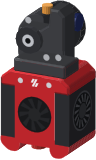
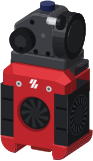
feat(toolhead): redraw the Dragon Burner from its v8 STEP (prestonbrown/helixscreen#2081)
Cowl proportions come from the v8 STEP assembly: the faceted cap, the narrow front plate
around the 3010 fan, the 4010 blowers filling both sides, and quarter-round duct feet.
The extruder on top is a Galileo 2 standalone, as in the v8 renders.

diff --git a/scripts/unit_art/heads/dragonburner.py b/scripts/unit_art/heads/dragonburner.py
@@ -1,30 +1,46 @@
 # SPDX-License-Identifier: GPL-3.0-or-later
-"""Dragonburner: a red fan body and duct lips, black fan blocks, and a compact dark extruder."""
+"""Dragon Burner v8 with a Galileo 2 standalone extruder, measured from the v8 STEP assembly.
+
+A red cowl: a faceted cap, a front plate around the 3010 hotend fan and two duct feet. Black 4010 blowers fill
+the cowl's sides, and the extruder sits on a dark mount behind the cap. Sizes are in millimetres, scaled by MM.
+"""
 import math
 
 from ..head import Drawing, HeadDef, rounded
 
-BODY, EXTRUDER, BLACK, DARK = "#b8242a", "#3a3b3f", "#2a2b2f", "#101113"
-HALF_WIDTH = 0.215
-DEPTH = 0.33
-BODY_TOP = 0.5
-BLOCK_TOP = 0.445
-TIP = (0.0, 0.05, 0.012)
+BODY, MOUNT, EXTRUDER, BLOWER, KNOB, DARK = "#b8242a", "#2f3034", "#3c3d42", "#232427", "#1a1b1e", "#101113"
+SCREW = "#c6c8cc"
+MM = 0.43 / 55.0
+
+HALF_WIDTH = 27.5 * MM
+PLATE_HALF = 16.5 * MM
+DUCT_INNER = 15.0 * MM
+DUCT_TOP = 12.0 * MM
+DUCT_DEPTH = 40.0 * MM
+PLATE_BOTTOM = 8.0 * MM
+BODY_DEPTH = 35.0 * MM
+CAP_BOTTOM = 52.0 * MM
+CAP_SHOULDER = 61.0 * MM
+CAP_TOP = 67.0 * MM
+CAP_DEPTH = 14.0 * MM
+CHAMFER = 6.0 * MM
+FAN_Z = 33.0 * MM
+FAN_R = 13.6 * MM
+# The mounts behind the cap: the hotend's, then the extruder's on top of it.
+MOUNT_FRONT, MOUNT_BACK = 14.0 * MM, 37.0 * MM
+HOTEND_MOUNT_BOTTOM = 44.0 * MM
+EXTRUDER_MOUNT_BOTTOM = 61.0 * MM
+DECK = 67.5 * MM  # the extruder's foot
+EXTRUDER_FRONT, EXTRUDER_BACK = 9.0 * MM, 37.0 * MM
+COLLET_Y = 22.0 * MM
+TIP = (0.0, 18.0 * MM, -4.0 * MM)
 
 
-def _circle(cx, cz, r, n=24, start=0.0):
-    return [(cx + r * math.cos(start + 2 * math.pi * i / n), cz + r * math.sin(start + 2 * math.pi * i / n)) for i in range(n)]
+def _circle(cy, cz, r, n=24):
+    return [(cy + r * math.cos(2 * math.pi * i / n), cz + r * math.sin(2 * math.pi * i / n)) for i in range(n)]
 
 
-def _cylinder_y(d, cx, cz, r, y0, y1, color, cap, n=20):
-    """A cylinder running front to back, its near end capped."""
-    ring = _circle(cx, cz, r, n)
-    for a, b in zip(ring, ring[1:] + ring[:1]):
-        d.facet([(a[0], y0, a[1]), (b[0], y0, b[1]), (b[0], y1, b[1]), (a[0], y1, a[1])], color)
-    d.facet([(x, y0, z) for x, z in ring], cap)
-
-
-def _cylinder_x(d, cy, cz, r, x0, x1, color, cap, n=14):
+def _cylinder_x(d, cy, cz, r, x0, x1, color, cap, n=16):
     """A cylinder running across the head, its right end capped."""
     ring = _circle(cy, cz, r, n)
     for a, b in zip(ring, ring[1:] + ring[:1]):
@@ -32,19 +48,16 @@ def _cylinder_x(d, cy, cz, r, x0, x1, color, cap, n=14):
     d.facet([(x1, y, z) for y, z in ring], cap)
 
 
-def _side_fan(d, x, cy, cz, r):
-    """The blower on the head's side: a raised ring, a dark well, blades and a hub."""
-    def on_side(pts, dx, color, **kw):
-        d.facet([(x + dx, y, z) for y, z in pts], color, **kw)
+def _cylinder_y(d, cx, cz, r, y0, y1, color, cap, n=16):
+    """A cylinder running front to back, its near end capped."""
+    ring = _circle(cx, cz, r, n)
+    for a, b in zip(ring, ring[1:] + ring[:1]):
+        d.facet([(a[0], y0, a[1]), (b[0], y0, b[1]), (b[0], y1, b[1]), (a[0], y1, a[1])], color)
+    d.facet([(x, y0, z) for x, z in ring], cap)
 
-    on_side(_circle(cy, cz, r * 1.1), 0.001, "#3a3b40", amb=0.8, dif=0.4, spec=0.1)
-    on_side(_circle(cy, cz, r), 0.002, DARK, amb=0.9, dif=0.2, spec=0.0)
-    if d.detail:
-        for i in range(14):
-            t = 2 * math.pi * i / 14
-            blade = [(cy + r * k * math.cos(t + s), cz + r * k * math.sin(t + s)) for k, s in ((0.5, 0.0), (0.92, 0.2), (0.92, 0.36), (0.5, 0.16))]
-            on_side(blade, 0.003, "#3b3c41", amb=0.9, dif=0.3, spec=0.0)
-    on_side(_circle(cy, cz, r * 0.42), 0.004, "#26272b", amb=0.9, dif=0.35, spec=0.05)
+
+def _hexagon(cx, cz, r, turn=0.0):
+    return [(cx + r * math.cos(turn + math.pi * i / 3), cz + r * math.sin(turn + math.pi * i / 3)) for i in range(6)]
 
 
 def _voron_mark(d, cx, cz, size, y, color):
@@ -54,47 +67,116 @@ def _voron_mark(d, cx, cz, size, y, color):
         d.face(pts, y, color)
 
 
-def _extruder(d):
-    z = BODY_TOP - 0.595
-    # The motor behind.
-    _cylinder_y(d, 0.05, 0.82 + z, 0.14, 0.2, 0.26, "#2b2c30", "#1f2023", n=24)
-    d.solid(rounded([(-0.13, 0.665 + z), (0.03, 0.665 + z), (0.03, 0.94 + z), (-0.07, 0.925 + z), (-0.13, 0.84 + z)], 0.03), 0.05, 0.2, EXTRUDER)
-    d.tube(0.03, 0.1, 0.94 + z, 0.985 + z, 0.03, "#d08a3a")
-    # The tension spring and its knob at the top right of the tower.
-    _cylinder_x(d, 0.07, 0.925 + z, 0.028, 0.185, 0.222, "#b9bbc0", "#b9bbc0", n=12)
-    _cylinder_x(d, 0.07, 0.925 + z, 0.05, 0.222, 0.246, "#1c2452", "#232c63", n=16)
-    body = [(-0.1, 0.665 + z), (0.185, 0.665 + z), (0.185, 0.965 + z), (0.15, 1.0 + z), (0.095, 1.0 + z), (0.085, 0.9 + z), (0.03, 0.86 + z), (-0.1, 0.86 + z)]
-    d.solid(body, 0.0, 0.13, EXTRUDER, bevel=0.012)
-    d.solid(rounded([(-0.135, BODY_TOP), (0.19, BODY_TOP), (0.19, 0.67 + z), (-0.135, 0.67 + z)], 0.012), 0.0, 0.17, EXTRUDER, bevel=0.01)
-    # The drive gear boss on the left, a bright bore in its centre.
-    _cylinder_y(d, -0.03, 0.8 + z, 0.078, -0.022, 0.01, "#3e3f44", "#2d2e32", n=14)
-    d.disc(-0.03, 0.8 + z, 0.036, -0.024, "#b9bbc0", sides=16)
-    d.disc(-0.03, 0.8 + z, 0.016, -0.026, DARK, sides=12)
+def _duct(d, s):
+    """One duct foot: a quarter round on the outside, running the full depth under its blower."""
+    r, cx, cz = 10.0 * MM, 17.5 * MM, 10.0 * MM
+    arc = [(cx + r * math.cos(-math.pi / 2 * i / 8), cz + r * math.sin(-math.pi / 2 * i / 8)) for i in range(9)]
+    foot = [(14.6 * MM, DUCT_TOP), (HALF_WIDTH, DUCT_TOP)] + arc + [(15.7 * MM, 0.0), (14.4 * MM, 4.0 * MM)]
+    foot = [(s * x, z) for x, z in foot]
+    d.solid(foot, 0.0, DUCT_DEPTH, BODY, bevel=1.0 * MM)
+
+
+def _blower(d, s):
+    """A 4010 blower standing in the cowl's side, its outlet down into the duct."""
+    x0, x1 = sorted((s * PLATE_HALF, s * HALF_WIDTH))
+    d.solid([(x0, DUCT_TOP), (x1, DUCT_TOP), (x1, CAP_BOTTOM), (x0, CAP_BOTTOM)], 0.6 * MM, BODY_DEPTH, BLOWER)
     if d.detail:
-        for x, zz in ((0.075, 0.71 + z), (-0.04, 0.915 + z), (0.15, 0.72 + z)):
-            d.disc(x, zz, 0.019, -0.002, "#a9abb0", sides=12)
+        # The clips that hold the blower read as notches across its front edge.
+        for z in (24.0 * MM, 40.0 * MM):
+            d.face([(x0 + 1.5 * MM, z), (x1 - 1.0 * MM, z), (x1 - 1.0 * MM, z + 1.4 * MM), (x0 + 1.5 * MM, z + 1.4 * MM)], 0.5 * MM, DARK)
+    if s > 0:
+        _blower_intake(d, HALF_WIDTH, 18.0 * MM, 31.0 * MM, 14.0 * MM)
+
+
+def _blower_intake(d, x, cy, cz, r):
+    def on_side(pts, dx, color, **kw):
+        d.facet([(x + dx, y, z) for y, z in pts], color, **kw)
+
+    on_side(_circle(cy, cz, r * 1.08, 28), 0.0006, "#2e2f34", amb=0.8, dif=0.4, spec=0.1)
+    on_side(_circle(cy, cz, r, 28), 0.0012, DARK, amb=0.9, dif=0.2, spec=0.0)
+    if d.detail:
+        for i in range(18):
+            t = 2 * math.pi * i / 18
+            blade = [(cy + r * k * math.cos(t + a), cz + r * k * math.sin(t + a)) for k, a in ((0.62, 0.0), (0.94, 0.12), (0.94, 0.24), (0.62, 0.1))]
+            on_side(blade, 0.0018, "#34353a", amb=0.9, dif=0.3, spec=0.0)
+    on_side(_circle(cy, cz, r * 0.55, 20), 0.0024, "#1f2023", amb=0.9, dif=0.35, spec=0.05)
+
+
+# The cap's right half, bottom centre to top centre: each pair is a corner of its flat front and the corner
+# of its outline that the chamfer slopes back to.
+CAP_FRONT_TO_EDGE = [
+    ((0.0, CAP_BOTTOM), (0.0, CAP_BOTTOM)),
+    ((25.0 * MM, CAP_BOTTOM), (HALF_WIDTH, CAP_BOTTOM)),
+    ((25.0 * MM, CAP_SHOULDER - 2.0 * MM), (HALF_WIDTH, CAP_SHOULDER)),
+    ((17.0 * MM, CAP_SHOULDER), (21.0 * MM, CAP_TOP)),
+    ((0.0, CAP_SHOULDER), (0.0, CAP_TOP)),
+]
+
+
+def _cap(d):
+    """The cap over the blowers: a flat front, chamfered back along its top and sides, then straight to its back."""
+    pairs = CAP_FRONT_TO_EDGE + [((-f[0], f[1]), (-e[0], e[1])) for f, e in reversed(CAP_FRONT_TO_EDGE) if f[0] != 0]
+    d.solid([e for _, e in pairs], CHAMFER, CAP_DEPTH, BODY)
+    for (f0, e0), (f1, e1) in zip(pairs, pairs[1:] + pairs[:1]):
+        if f0 != e0 or f1 != e1:
+            d.facet([(f0[0], 0.0, f0[1]), (f1[0], 0.0, f1[1]), (e1[0], CHAMFER, e1[1]), (e0[0], CHAMFER, e0[1])], BODY)
+    d.face([f for f, _ in pairs], 0.0, BODY)
+    for x in (-12.3 * MM, 12.3 * MM):
+        d.disc(x, 54.5 * MM, 2.2 * MM, -0.001, SCREW, sides=14)
+        if d.detail:
+            d.face(_hexagon(x, 54.5 * MM, 1.0 * MM), -0.002, "#55575c")
+    _voron_mark(d, 0.0, 56.5 * MM, 3.3 * MM, -0.001, "#f0f0f2")
+
+
+def _front_plate(d):
+    plate = [(-PLATE_HALF, PLATE_BOTTOM), (PLATE_HALF, PLATE_BOTTOM), (PLATE_HALF, CAP_BOTTOM + 0.5 * MM), (-PLATE_HALF, CAP_BOTTOM + 0.5 * MM)]
+    d.solid(plate, 0.0, 3.0 * MM, BODY)
+    # The fan sits a little back in a round bore.
+    d.disc(0.0, FAN_Z, FAN_R, -0.0005, "#7d1a1e", sides=36, amb=0.9, dif=0.2, spec=0.0)
+    d.fan(1.0 * MM, FAN_Z + 0.8 * MM, FAN_R * 0.9, -0.001, blade="#2a2b2f")
+
+
+def _mounts(d):
+    """The hotend mount and the extruder mount, showing above the blower behind the cap."""
+    d.solid([(-HALF_WIDTH, HOTEND_MOUNT_BOTTOM), (HALF_WIDTH, HOTEND_MOUNT_BOTTOM), (HALF_WIDTH, EXTRUDER_MOUNT_BOTTOM), (-HALF_WIDTH, EXTRUDER_MOUNT_BOTTOM)], MOUNT_FRONT, MOUNT_BACK - 1.0 * MM, BODY)
+    d.solid(rounded([(-26.0 * MM, EXTRUDER_MOUNT_BOTTOM), (26.0 * MM, EXTRUDER_MOUNT_BOTTOM), (26.0 * MM, DECK), (-26.0 * MM, DECK)], 1.5 * MM), MOUNT_FRONT, MOUNT_BACK, MOUNT)
+
+
+def _extruder(d):
+    """A Galileo 2 standalone: a housing with the feed knob on its face, the tension screw on top and a pancake motor on its right."""
+    z = DECK
+    d.solid(rounded([(-23.0 * MM, z), (22.0 * MM, z), (22.0 * MM, z + 8.0 * MM), (-23.0 * MM, z + 8.0 * MM)], 2.0 * MM), EXTRUDER_FRONT - 1.5 * MM, EXTRUDER_BACK, EXTRUDER, bevel=1.0 * MM)
+    housing = [(-21.0 * MM, z + 8.0 * MM), (12.0 * MM, z + 8.0 * MM), (12.0 * MM, z + 37.0 * MM), (8.5 * MM, z + 40.0 * MM), (-5.0 * MM, z + 40.0 * MM), (-21.0 * MM, z + 29.0 * MM)]
+    d.solid(rounded(housing, 2.5 * MM), EXTRUDER_FRONT, EXTRUDER_BACK - 4.0 * MM, EXTRUDER, bevel=1.2 * MM)
+    # The pancake motor on the right, its face toward the side.
+    _cylinder_x(d, 23.0 * MM, z + 22.0 * MM, 17.0 * MM, 12.0 * MM, 22.0 * MM, "#26272b", "#202124", n=28)
+    if d.detail:
+        _cylinder_x(d, 23.0 * MM, z + 22.0 * MM, 12.0 * MM, 22.0 * MM, 22.6 * MM, "#2e2f33", "#2e2f33", n=20)
+    # The tension screw and spring, across the top right, with its thumb knob.
+    _cylinder_x(d, 15.0 * MM, z + 34.0 * MM, 2.6 * MM, 4.0 * MM, 13.0 * MM, "#b9bbc0", "#b9bbc0", n=10)
+    _cylinder_x(d, 15.0 * MM, z + 34.0 * MM, 5.2 * MM, 13.0 * MM, 16.0 * MM, KNOB, "#25262a", n=16)
+    d.collet(0.0, COLLET_Y, z + 40.0 * MM, color="#1c2452")
+    # The feed knob on the gear shaft, at the face's lower left.
+    _cylinder_y(d, -12.0 * MM, z + 19.0 * MM, 9.0 * MM, EXTRUDER_FRONT - 7.0 * MM, EXTRUDER_FRONT, KNOB, KNOB, n=20)
+    d.face(_hexagon(-12.0 * MM, z + 19.0 * MM, 5.2 * MM, math.pi / 6), EXTRUDER_FRONT - 7.0 * MM - 0.0005, "#2b2c30")
+    if d.detail:
+        for x, zz in ((-15.0 * MM, z + 10.5 * MM), (-3.0 * MM, z + 10.5 * MM), (7.0 * MM, z + 10.5 * MM), (-6.0 * MM, z + 33.0 * MM)):
+            d.disc(x, zz, 1.8 * MM, EXTRUDER_FRONT - 0.0005, DARK, sides=12)
+        d.disc(3.0 * MM, z + 24.0 * MM, 1.6 * MM, EXTRUDER_FRONT - 0.0005, "#55575c", sides=12)
 
 
 def draw_art(scene, tier):
     d = Drawing(scene, tier)
-    d.tube(TIP[0], TIP[1], 0.05, 0.15, 0.04, "#a02a26")
-    d.nozzle(TIP[0], TIP[1], 0.05, r_top=0.022, r_tip=0.008, z_tip=TIP[2])
-    for s in (1, -1):
-        lip = rounded([(s * 0.095, 0.11), (s * HALF_WIDTH, 0.11), (s * HALF_WIDTH, 0.06), (s * 0.165, 0.02), (s * 0.115, 0.02), (s * 0.095, 0.05)], 0.025)
-        d.solid(lip, 0.0, DEPTH, BODY)
-    # Black fan blocks either side of the strip; the side face is about as tall as it is deep.
-    for x0, x1 in ((0.125, HALF_WIDTH), (-HALF_WIDTH, -0.125)):
-        d.solid([(x0, 0.1), (x1, 0.1), (x1, BLOCK_TOP), (x0, BLOCK_TOP)], 0.004, DEPTH, BLACK)
-    _side_fan(d, HALF_WIDTH, DEPTH / 2, 0.265, 0.105)
-    cap = rounded([(-HALF_WIDTH, BODY_TOP - 0.095), (HALF_WIDTH, BODY_TOP - 0.095), (HALF_WIDTH, BODY_TOP - 0.045), (0.16, BODY_TOP), (-0.16, BODY_TOP), (-HALF_WIDTH, BODY_TOP - 0.045)], 0.012)
-    d.solid(cap, 0.0, DEPTH, BODY, bevel=0.012)
-    d.face([(-0.125, 0.075), (0.125, 0.075), (0.125, BODY_TOP - 0.075), (-0.125, BODY_TOP - 0.075)], 0.0, BODY)
-    d.fan(0.0, 0.26, 0.105, -0.002, blade="#232427")
-    _voron_mark(d, 0.0, BODY_TOP - 0.05, 0.022, -0.001, "#e8e8ea")
-    if d.detail:
-        for x in (-0.09, 0.09):
-            d.disc(x, BODY_TOP - 0.05, 0.016, -0.001, "#c6c8cc", sides=12)
+    d.solid(rounded([(-8.0 * MM, 1.0 * MM), (8.0 * MM, 1.0 * MM), (8.0 * MM, 9.0 * MM), (-8.0 * MM, 9.0 * MM)], 1.5 * MM), TIP[1] - 7.0 * MM, TIP[1] + 7.0 * MM, "#7a1f1c")
+    d.nozzle(TIP[0], TIP[1], 1.0 * MM, r_top=3.0 * MM, r_tip=1.0 * MM, z_tip=TIP[2])
+    _mounts(d)
+    _duct(d, -1)
+    _blower(d, -1)
+    _front_plate(d)
+    _duct(d, 1)
+    _blower(d, 1)
+    _cap(d)
     _extruder(d)
 
 
-HEAD = HeadDef("dragonburner", "DRAGONBURNER", draw_art, TIP, entry=(0.03, 0.1, BODY_TOP + 0.39), size=1.29)
+HEAD = HeadDef("dragonburner", "DRAGONBURNER", draw_art, TIP, entry=(0.0, COLLET_Y, DECK + 40.0 * MM + 0.035), size=1.29)

diff --git a/src/rendering/toolhead_art_gen.cpp b/src/rendering/toolhead_art_gen.cpp
@@ -9,7 +9,7 @@ namespace helix::ui {
 const ToolheadArt kToolheadArt[] = {
     {ToolheadStyle::STEALTHBURNER, "stealthburner", 0.6364f, 0.3326f, 0.9602f, 0.9775f, 0.4625f, 0.0876f},
     {ToolheadStyle::MINI_STEALTHBURNER, "mini_stealthburner", 0.6717f, 0.4089f, 0.9290f, 0.9498f, 0.4692f, 0.0986f},
-    {ToolheadStyle::DRAGONBURNER, "dragonburner", 0.6027f, 0.4035f, 0.9614f, 0.9813f, 0.4949f, 0.0304f},
+    {ToolheadStyle::DRAGONBURNER, "dragonburner", 0.5791f, 0.4846f, 0.9593f, 1.0024f, 0.5114f, 0.0197f},
     {ToolheadStyle::A4T, "a4t", 0.6192f, 0.4110f, 0.9589f, 0.9310f, 0.4542f, 0.0161f},
     {ToolheadStyle::ANTHEAD, "anthead", 0.5389f, 0.3964f, 0.9392f, 1.0422f, 0.5033f, 0.0038f},
     {ToolheadStyle::JABBERWOCKY, "jabberwocky", 0.4592f, 0.3736f, 0.9809f, 1.2387f, 0.4547f, 0.2839f},
